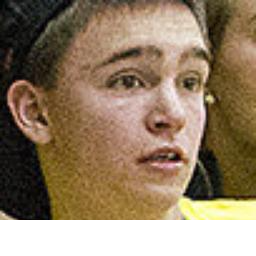
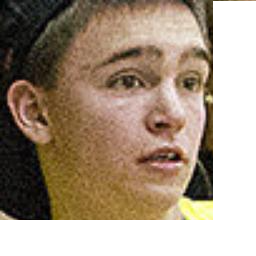
update

Changed region(s): [[0.8125, 0.0, 1.0, 0.875]]

diff --git a/faceOrientationPred.py b/faceOrientationPred.py
@@ -31,8 +31,8 @@ class faceOrientPred(object):
 
         self.init = True
         self.debug = False
-        self.outputDir = "./03222017_01_square_Menpo39DataSet_output/"
-        self.modelDir = "./03222017_01_square_Menpo39DataSet_model/"
+        self.outputDir = "./output/03292017_01_bigNet_Scale_output/"
+        self.modelDir = "./output/03292017_01_bigNet_Scale_model/"
         self.imSize = 256
 
         # TN = TextNet('./MatBS/shape_0.obj', imgW=256)
@@ -70,28 +70,13 @@ class faceOrientPred(object):
         print "self.MaxIters: ", self.MaxIters
         print "self.MaxTestIters: ", self.MaxTestIters
 
-
-        # self.ifMenpo39DataSet = False
-
-        # if self.ifMenpo39DataSet:
-        #     self.readMenpo39DataSet()
-
-
     def final_pred(self, y_true, y_pred):
         # y_cont=np.concatenate(y_pred,axis=1)
         return y_pred
 
-    # def readMenpo39DataSet(self):
-    #     self.ImgDir = "./Menpo39Preprocessed/img/"
-    #     self.PTSDir = "./Menpo39Preprocessed/pts/"
-    #     self.imgs = os.listdir(self.ImgDir)
-    #     # self.pts = os.listdir(ImgDir)
-    #     # assert len(pts) == len(imgs)
-
-
 
     def DataGenBB(self, DataStrs, train_start,train_end):
-        generateFunc = ["original", "resize", "rotate", "brightnessAndContrast" ]
+        generateFunc = ["original", "scale", "rotate", "brightnessAndContrast" ]
         # generateFunc = ["original", "resize", "rotate", "mirror", "translate", "brightnessAndContrast" ]
 
         InputData = np.zeros([self.batch_size * len(generateFunc), self.imSize, self.imSize, 3], dtype = np.float32)
@@ -136,6 +121,8 @@ class faceOrientPred(object):
                         newImg, newX, newY = ut.contrastBrightess(img, x, y)
                     elif method == "original":
                         newImg, newX, newY = img, x, y
+                    elif method == "scale":
+                        pass
                     else:
                         raise "not existing function"
 
@@ -164,7 +151,6 @@ class faceOrientPred(object):
                     # normXMean = (normXMax + normXMin)/2.0
                     # normYMean = (normYMax + normYMin)/2.0
                     # normEdge = max(normYMax - normYMin, normXMax - normXMin)
-
                     newXMin = min(newX)
                     newYMin = min(newY)
                     newXMax = max(newX)
@@ -172,7 +158,8 @@ class faceOrientPred(object):
                     newXMean = (newXMax + newXMin)/2.0
                     newYMean = (newYMax + newYMin)/2.0
                     newEdge = max(newYMax - newYMin, newXMax - newXMin)
-                                
+                    if method == "scale":
+                        newEdge = 0.7 * newEdge
                     # print "newXMin: ", newXMin
                     # print "newYMin: ", newYMin
                     # print "newXMax: ", newXMax
@@ -180,6 +167,9 @@ class faceOrientPred(object):
                     # print "newXMean: ", newXMean
                     # print "newYMean: ", newYMean
                     # print "newEdge: ", newEdge
+
+                    newImg = ut.plotTarget(newImg, [newXMean, newYMean, newEdge], ifSquareOnly = True, ifGreen = True)
+                    cv2.imwrite(str(count) + str(method) + '.jpg', newImg)
 
 
                     normX = ut.normalize(newX, self.imSize)
@@ -211,6 +201,7 @@ class faceOrientPred(object):
             else:
                 print "cannot : ", imgName
 
+        raise "debug"
 
         return InputData, InputLabel, np.asarray(InputNames)
 

diff --git a/test.py b/test.py
@@ -57,17 +57,18 @@ import cv2
 import numpy as np
 import utility as ut
 
-
+# imgName = "testFiles/995.jpg"
 imgName = "testFiles/image_100_05.png"
 img = cv2.imread(imgName)
 print img.shape
 (w, h, _) = img.shape
 
+# FTr = open("testFiles/995.txt",'r')
 FTr = open("testFiles/testImg.txt",'r')
 DataTr = FTr.readlines()
+print DataTr
+
 TrNum = len(DataTr)
-
-
 
 strLine = DataTr[0]
 strCells = strLine.rstrip(' \n').split(' ')
@@ -85,25 +86,41 @@ x, y = ut.unpackLandmarks(labelsPTS, 256)
 
 # img = ut.plotLandmarks(img, x, y, 256, name = None, ifRescale = False, ifReturn = True)
 
+# cv2.imshow("resize", img)
+# cv2.waitKey(0)
+# cv2.imwrite("original.jpg",img)
+# raise "debug"
+
 # print imgName
 # print labelsPTS.shape
 counter = 0
 while True:
 
+	# imgName = "testFiles/image_100_05.png"
+	# img = cv2.imread(imgName)
+	# print img.shape
+	# (w, h, _) = img.shape
+	# resizeImg = None
+	x, y = ut.unpackLandmarks(labelsPTS, 256)
+
 	resizeImg, x, y = ut.resize(img, x, y, random = True)
 
 	print type(resizeImg)
 	print resizeImg.shape
+	
 	resizeImg = ut.plotLandmarks(resizeImg, x, y, name = None, ifRescale = False, ifReturn = True)
 
-	cv2.imshow("resize", resizeImg)
+	# cv2.imshow("resize"+ str(counter), resizeImg)
 
 	# cv2.imshow("original",img)
 
-	cv2.waitKey(0)
+	# cv2.waitKey(0)
 
 	cv2.imwrite("resizeExperiment" + str(counter) + ".jpg",resizeImg)
+
 	counter += 1
+	if counter > 5:
+		break
 
 # import PIL
 # from PIL import Image

diff --git a/utility.py b/utility.py
@@ -77,7 +77,7 @@ def resize(originalImage, X, Y, xMaxBound = None, yMaxBound = None, random = Fal
 
     if random:
         # ratio = np.random.uniform(1.1, 2)
-        ratio = np.random.uniform(0.5, 0.8)
+        ratio = np.random.uniform(1.4, 1.5)
         print "ratio: ", ratio
         size = (int(xMaxBound*ratio), int(yMaxBound*ratio))
     print "size: ", size
@@ -310,7 +310,8 @@ def plotTarget(image, labels, imSize = None, ifSquareOnly = False, ifGreen = Fal
 
 def plotLandmarks(image, X, Y, imSize = None, name = None, ifRescale = False, ifReturn = False, circleSize = 2):
     # plot landmarks on original image
-    img = np.copy(image)
+    # img = np.copy(image)
+    img = image.copy()
     assert len(X) == len(Y)   
     # print "X: :::::::::::::::",
     # print X[:10]   

diff --git a/testResize.py b/testResize.py
@@ -68,3 +68,17 @@ img = cv2.resize(img,(basewidth,hsize))
 # img = img.resize((basewidth,hsize), PIL.Image.ANTIALIAS)
 cv2.imwrite('sompic.jpg', img) 
 
+
+
+
+
+
+
+
+
+
+
+
+
+
+

diff --git a/plotRec.py b/plotRec.py
@@ -15,7 +15,7 @@ def plotTarget(image, labels, ifGreen = False):
     return img
 
 files = [
-"2430.rec"
+"3600.rec"
 ]
 
 
